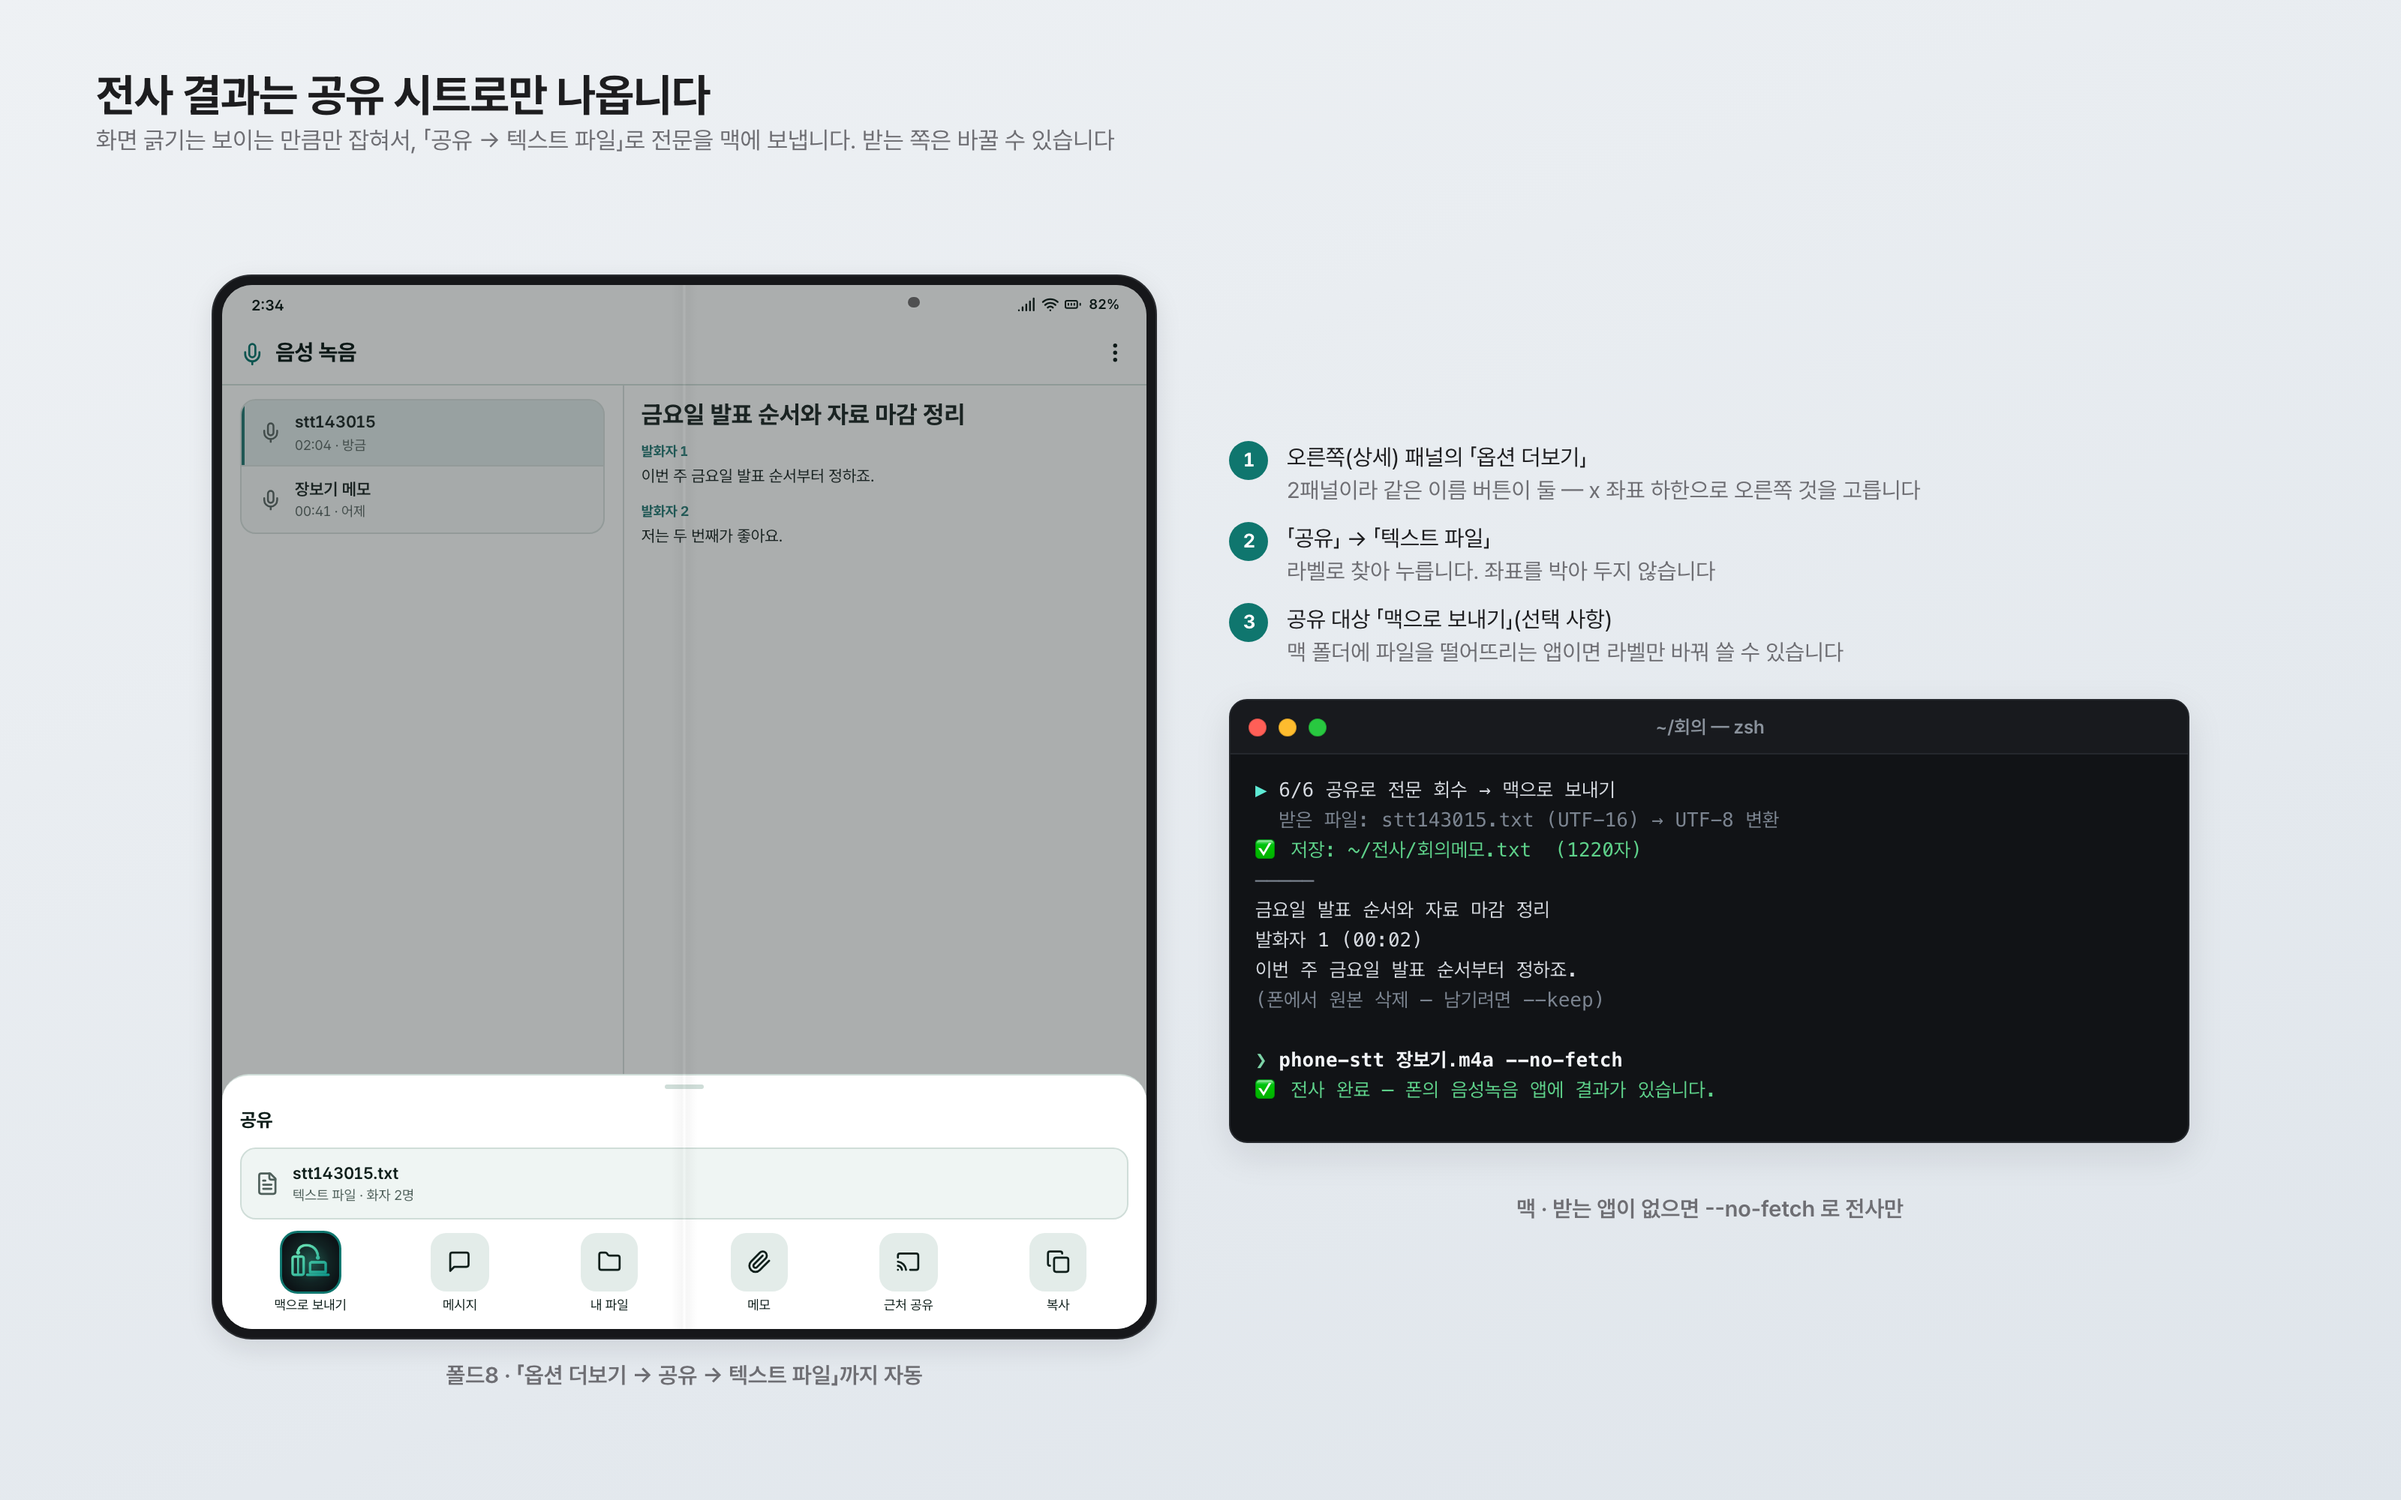
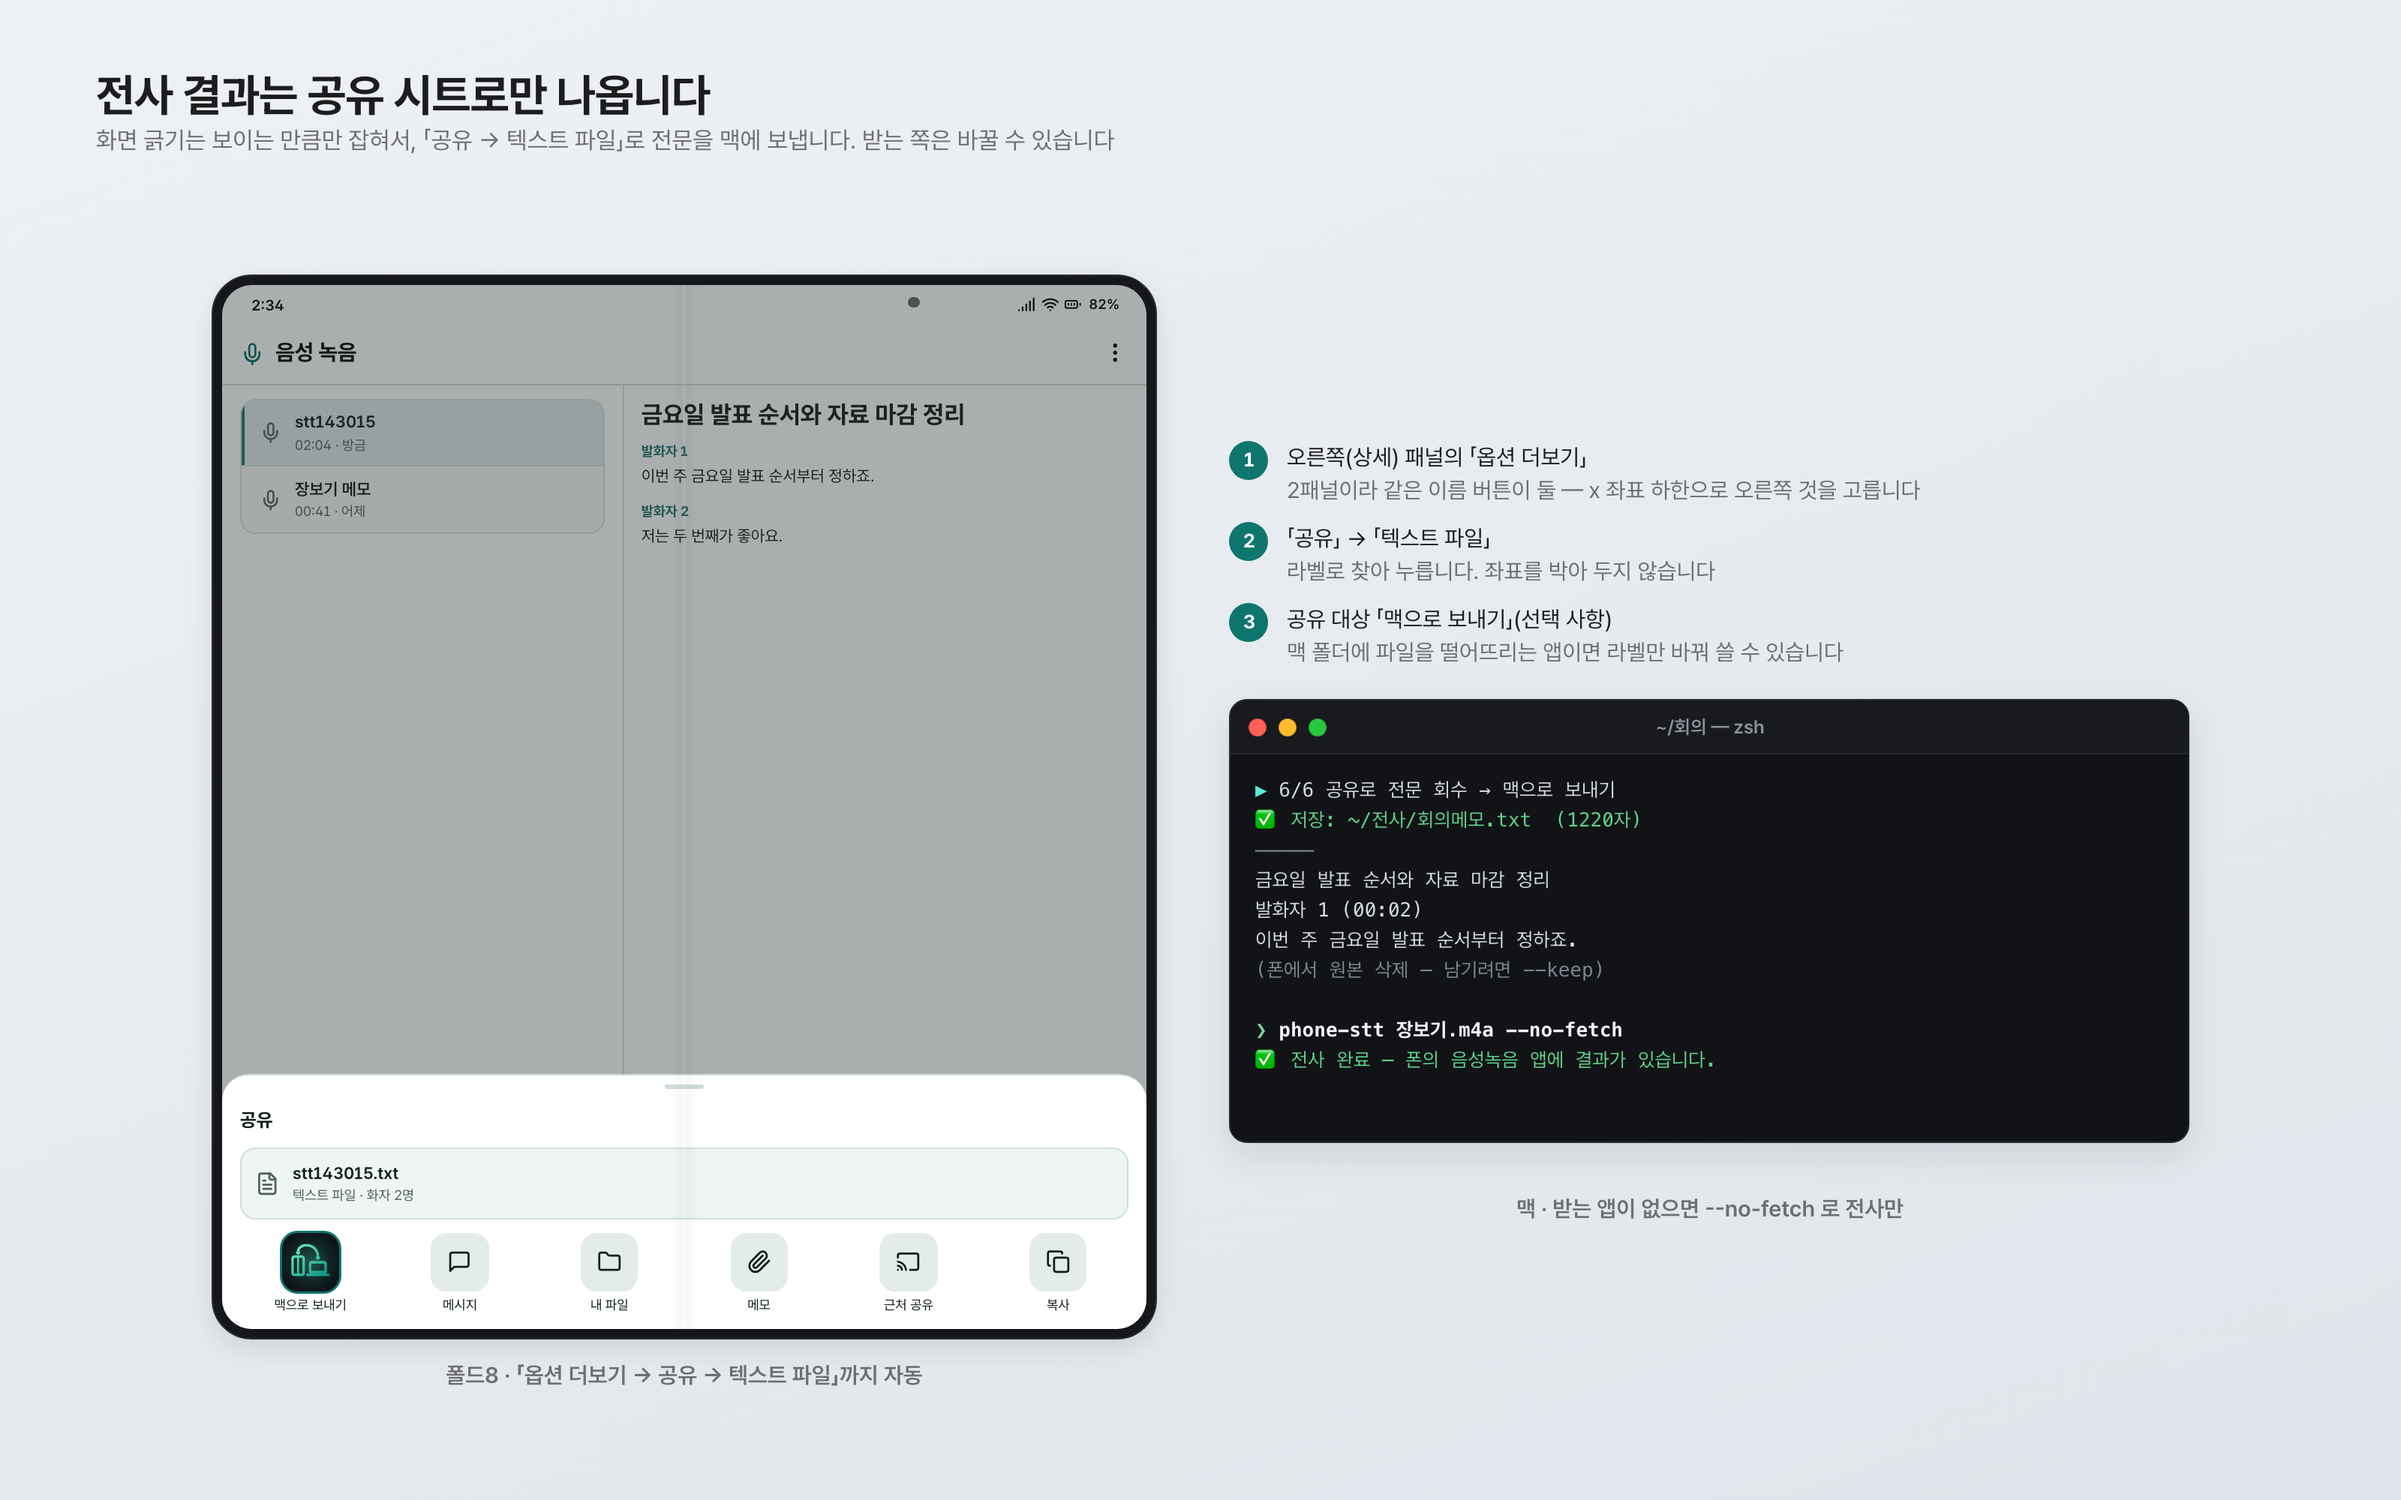
Pre-release audit fixes
- README: 전사 후 삭제 동작을 코드와 맞춤(STT_INBOX 수신 파일 삭제, --no-fetch 시 폰 사본 유지)
- share-retrieve 목업: 코드가 출력하지 않는 'UTF-16 → UTF-8 변환' 줄 제거 후 재렌더

Changed region(s): [[0.5, 0.527, 0.6875, 0.744]]

diff --git a/docs/mockups/share-retrieve.html b/docs/mockups/share-retrieve.html
@@ -79,7 +79,6 @@
       <div class="terminal">
         <div class="terminal-bar"><span class="traffic"><i></i><i></i><i></i></span><span class="t-title">~/회의 — zsh</span></div>
         <div class="terminal-body"><span class="t-accent">▶</span> 6/6 공유로 전문 회수 → 맥으로 보내기
-<span class="t-dim">  받은 파일: stt143015.txt (UTF-16) → UTF-8 변환</span>
 <span class="t-ok">✅ 저장: ~/전사/회의메모.txt  (1220자)</span>
 <span class="t-dim">─────</span>
 금요일 발표 순서와 자료 마감 정리

diff --git a/README.md b/README.md
@@ -36,7 +36,7 @@
   - 버튼은 좌표가 아니라 `uiautomator dump` 의 라벨과 resource-id 로 찾습니다. 사이드바 탭 하나만 좌표이고, 설정으로 바꿀 수 있습니다.
   - 전사가 화면에 나타날 때까지 최대 450초 기다립니다.
   - 「옵션 더보기 → 공유 → 텍스트 파일」로 전문을 맥에 보내 받습니다(아래 「전사문 회수」). UTF-16 으로 오는 파일을 UTF-8 로 바꿔 저장합니다.
-  - 끝나면 폰에 올린 사본을 지웁니다(`--keep` 이면 남김).
+  - 회수한 뒤에는 `STT_INBOX` 에 떨어진 그 파일을 지우고(내용은 `.txt` 로 옮겨 둔 뒤), 폰에 올린 오디오 사본도 지웁니다(`--keep` 이면 남김). `--no-fetch` 로 전사만 할 때는 폰 사본을 지우지 않습니다.
 - **`stt-queue`** — 맥 폴더에 새 녹음이 생기면 큐에 넣어 두고, 폰이 「화면 꺼짐 + 충전 중」일 때만 한 개씩 전사합니다. 전사하는 동안 폰 화면을 쓰기 때문입니다. 세 번 실패한 파일은 건너뜁니다.
 - **`lib-device.sh`** — 무선 adb 기기를 찾습니다. mDNS → 기본 게이트웨이(맥이 폰 핫스팟에 붙은 경우) → Tailscale 순서입니다.
 
